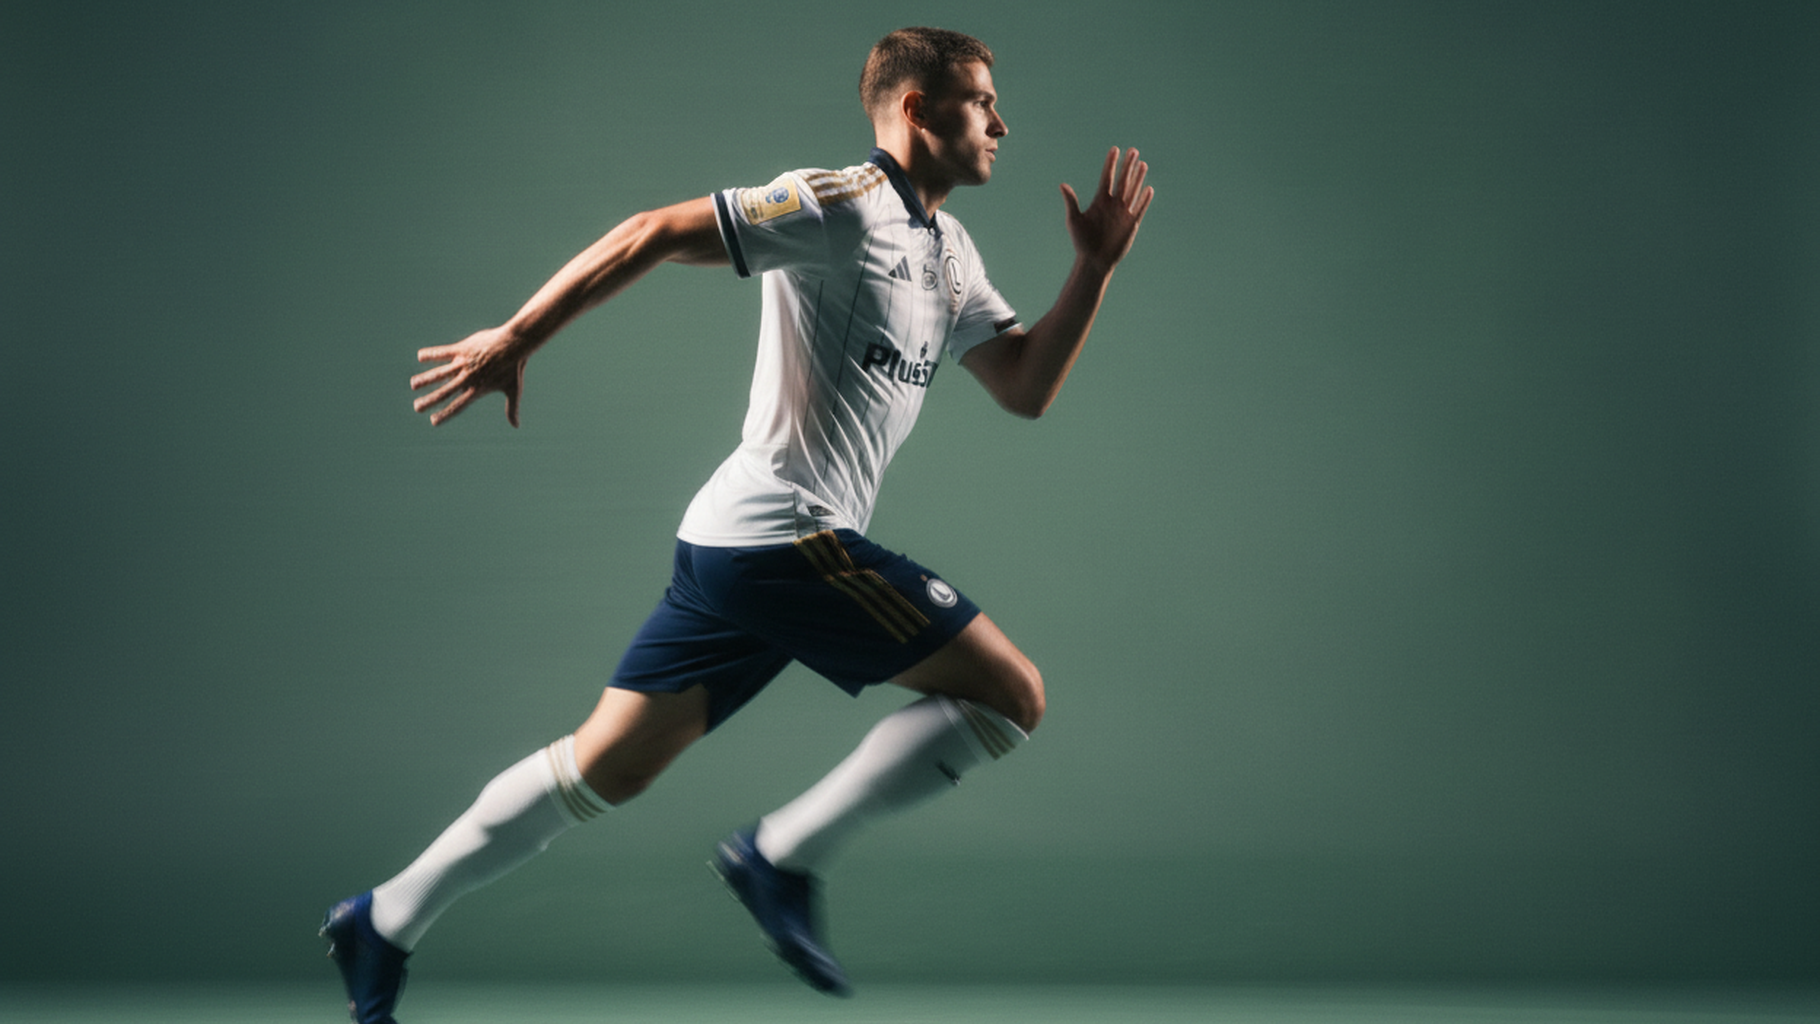
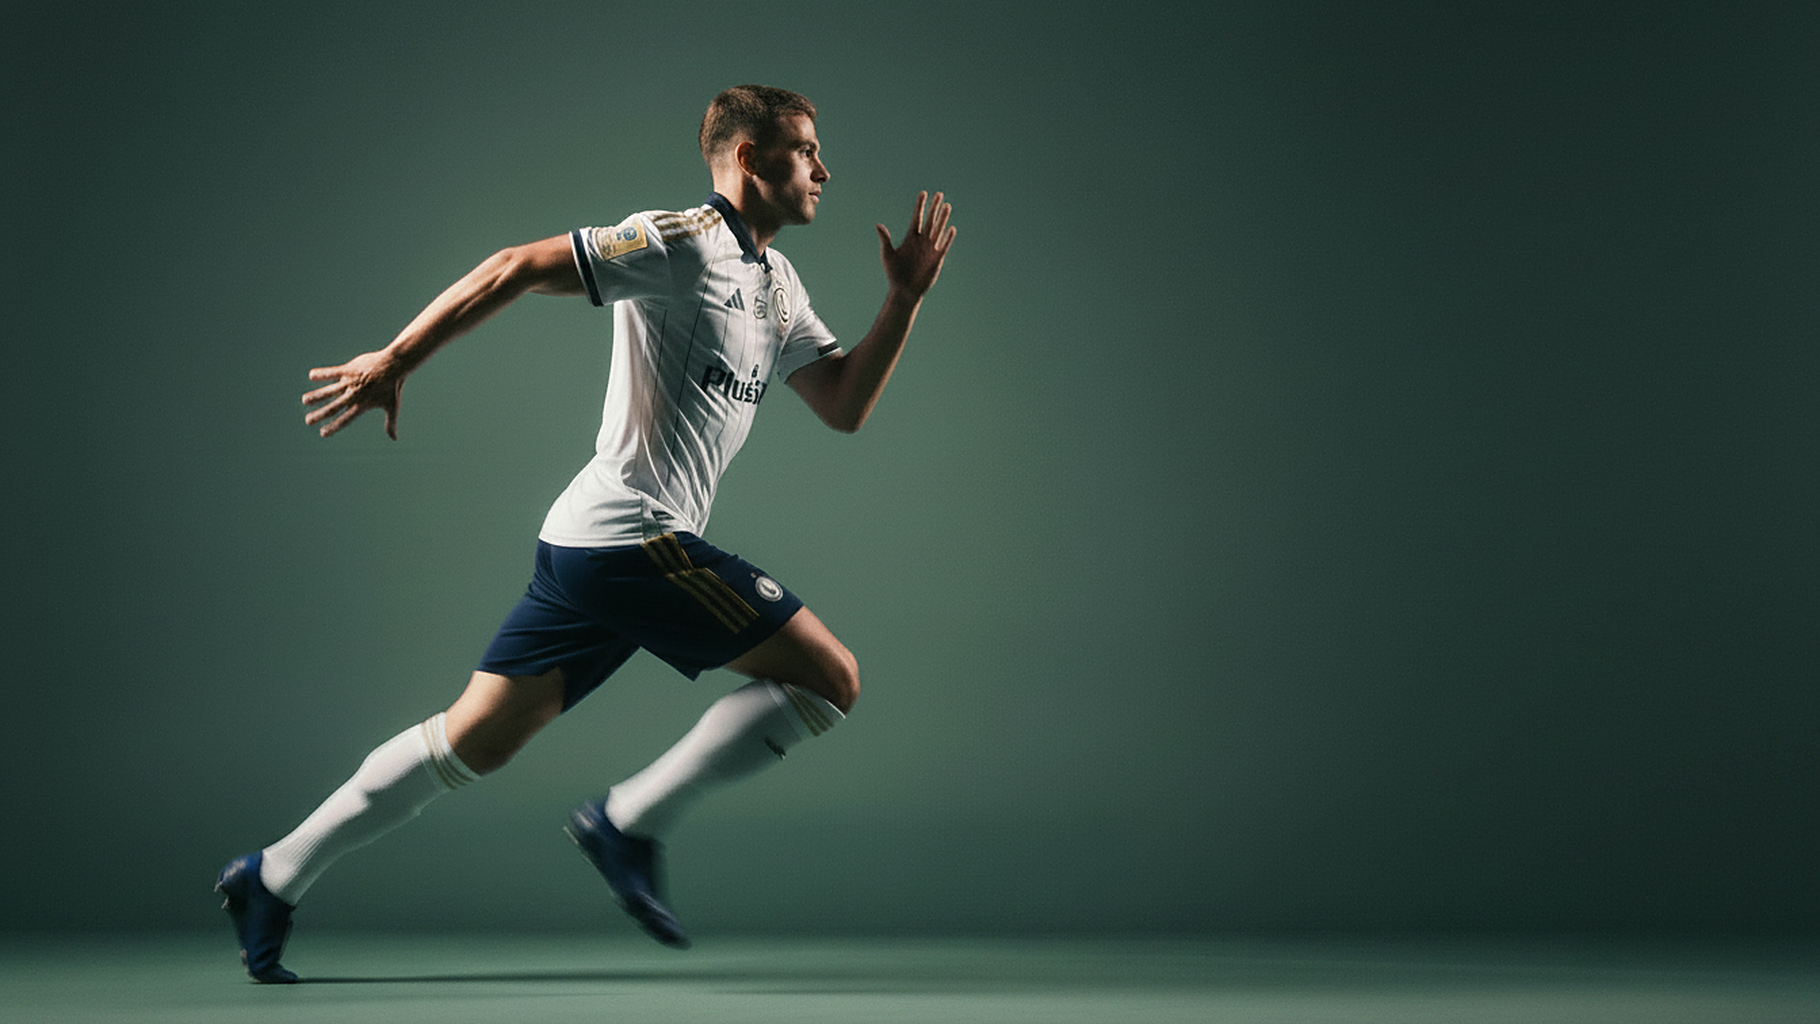
Nowe zdjęcie hero: Recraft → nano-banana (kit Legii) → outpaint 16:9
Pipeline wg planu klienta: Recraft v3 generuje bazę sprintera w studiu,
nano-banana przebiera go w kit Legii z dotychczasowego zdjęcia jako
referencji i czyści sprzęt studyjny, trzeci przebieg outpaintuje tło
do 16:9. Upscale do 1820×1024 (lanczos + unsharp, grain maskuje).
Zawodnik w lewej połowie — prawa czysta pod treść. Stawy przemierzone
na nowej anatomii.

diff --git a/v2/index.html b/v2/index.html
@@ -623,19 +623,19 @@ footer.site img{height:26px}
     </div>
   
   
-    <button class="jt j-bark" data-jt data-ix="45.9" data-iy="19.5" aria-label="Staw ramienny: Najbardziej ruchomy staw ciała. Stabilizują go mięśnie, nie kości — dlatego liczy się siła obręczy barkowej.">
+    <button class="jt j-bark" data-jt data-ix="37.1" data-iy="23.8" aria-label="Staw ramienny: Najbardziej ruchomy staw ciała. Stabilizują go mięśnie, nie kości — dlatego liczy się siła obręczy barkowej.">
       <span class="jt-dot"><i></i><i></i><i></i></span>
       <span class="jt-card"><b>Zgięcie + odwiedzenie</b><strong>Staw ramienny</strong><span>Najbardziej ruchomy staw ciała. Stabilizują go mięśnie, nie kości — dlatego liczy się siła obręczy barkowej.</span></span>
     </button>
-    <button class="jt j-biodro" data-jt data-ix="43.7" data-iy="58.0" aria-label="Staw biodrowy: Ograniczona rotacja przenosi obciążenie na kręgosłup lędźwiowy i pachwinę.">
+    <button class="jt j-biodro" data-jt data-ix="31.9" data-iy="56.0" aria-label="Staw biodrowy: Ograniczona rotacja przenosi obciążenie na kręgosłup lędźwiowy i pachwinę.">
       <span class="jt-dot"><i></i><i></i><i></i></span>
       <span class="jt-card"><b>Wyprost + rotacja</b><strong>Staw biodrowy</strong><span>Ograniczona rotacja przenosi obciążenie na kręgosłup lędźwiowy i pachwinę.</span></span>
     </button>
-    <button class="jt j-kolano" data-jt data-ix="34.7" data-iy="69.5" aria-label="Staw kolanowy · ACL: Po rekonstrukcji ACL o powrocie decyduje symetria siły uda, nie kalendarz.">
+    <button class="jt j-kolano" data-jt data-ix="45.0" data-iy="63.5" aria-label="Staw kolanowy · ACL: Po rekonstrukcji ACL o powrocie decyduje symetria siły uda, nie kalendarz.">
       <span class="jt-dot"><i></i><i></i><i></i></span>
       <span class="jt-card"><b>Zgięcie + stabilizacja</b><strong>Staw kolanowy · ACL</strong><span>Po rekonstrukcji ACL o powrocie decyduje symetria siły uda, nie kalendarz.</span></span>
     </button>
-    <button class="jt j-skok" data-jt data-ix="21.7" data-iy="89" aria-label="Staw skokowo-goleniowy: Zbyt małe zgięcie grzbietowe zmienia mechanikę kolana i podnosi ryzyko urazu.">
+    <button class="jt j-skok" data-jt data-ix="35.7" data-iy="76.9" aria-label="Staw skokowo-goleniowy: Zbyt małe zgięcie grzbietowe zmienia mechanikę kolana i podnosi ryzyko urazu.">
       <span class="jt-dot"><i></i><i></i><i></i></span>
       <span class="jt-card"><b>Zgięcie grzbietowe</b><strong>Staw skokowo-goleniowy</strong><span>Zbyt małe zgięcie grzbietowe zmienia mechanikę kolana i podnosi ryzyko urazu.</span></span>
     </button>
